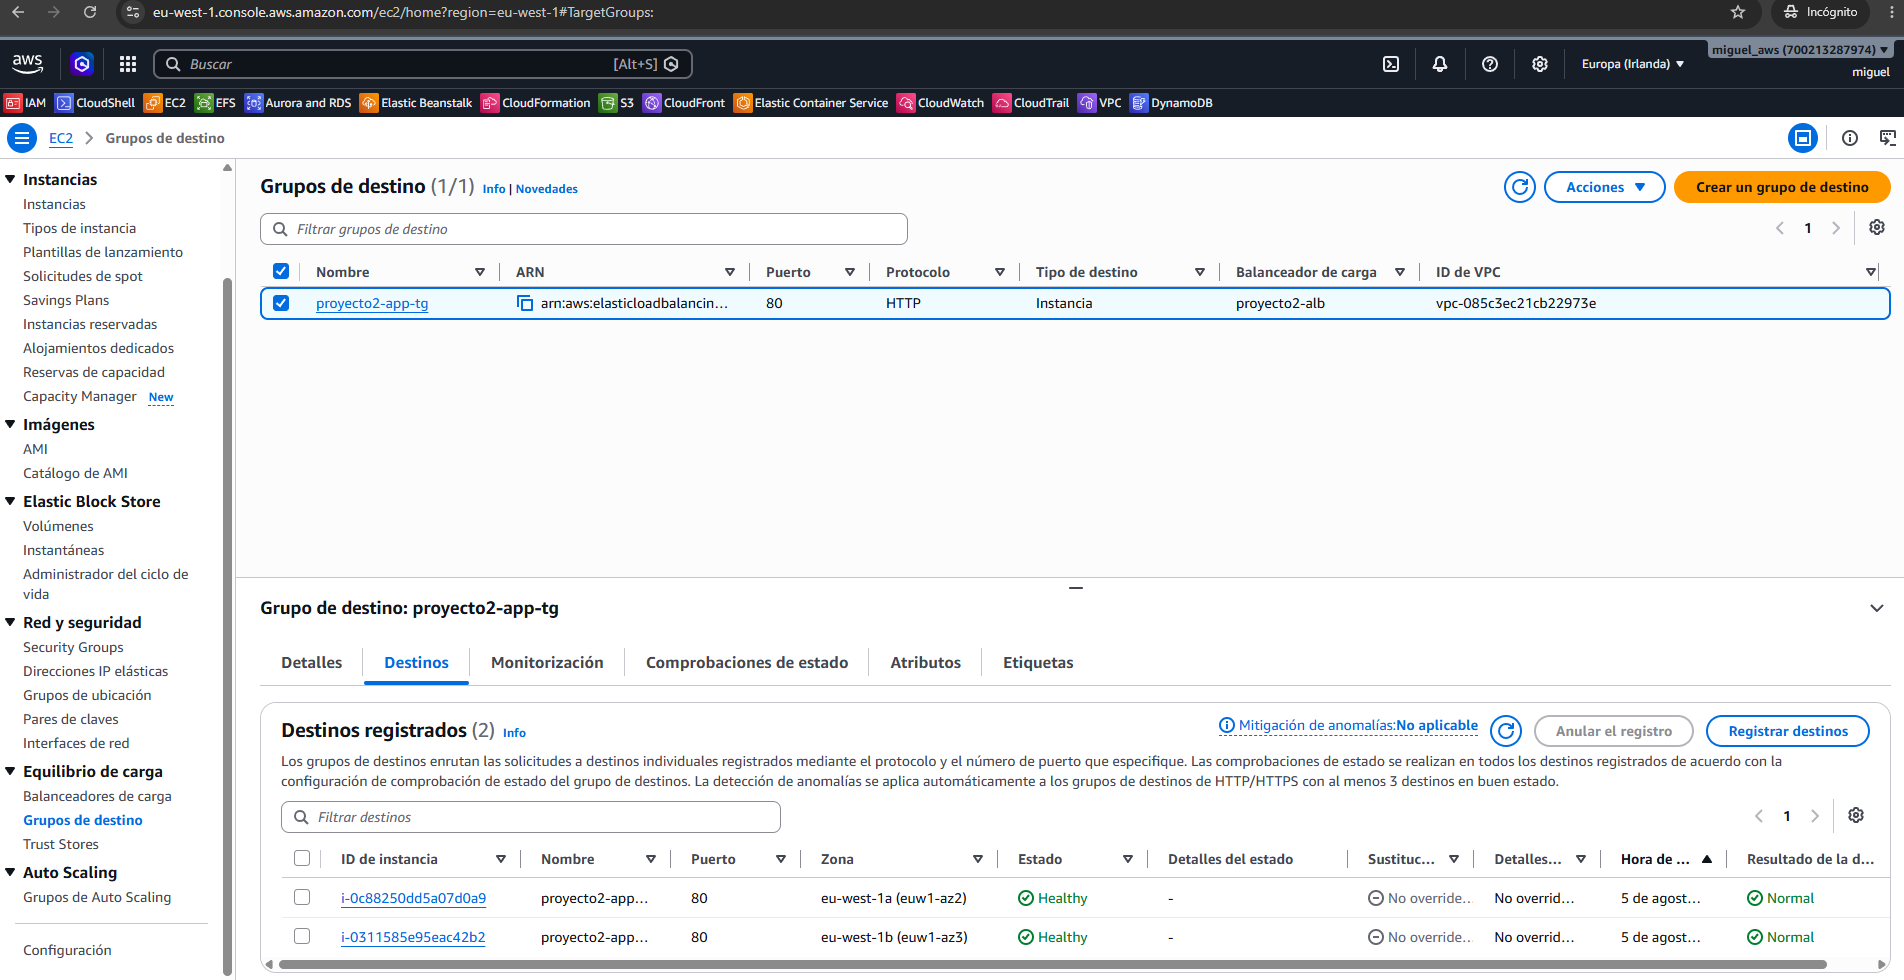
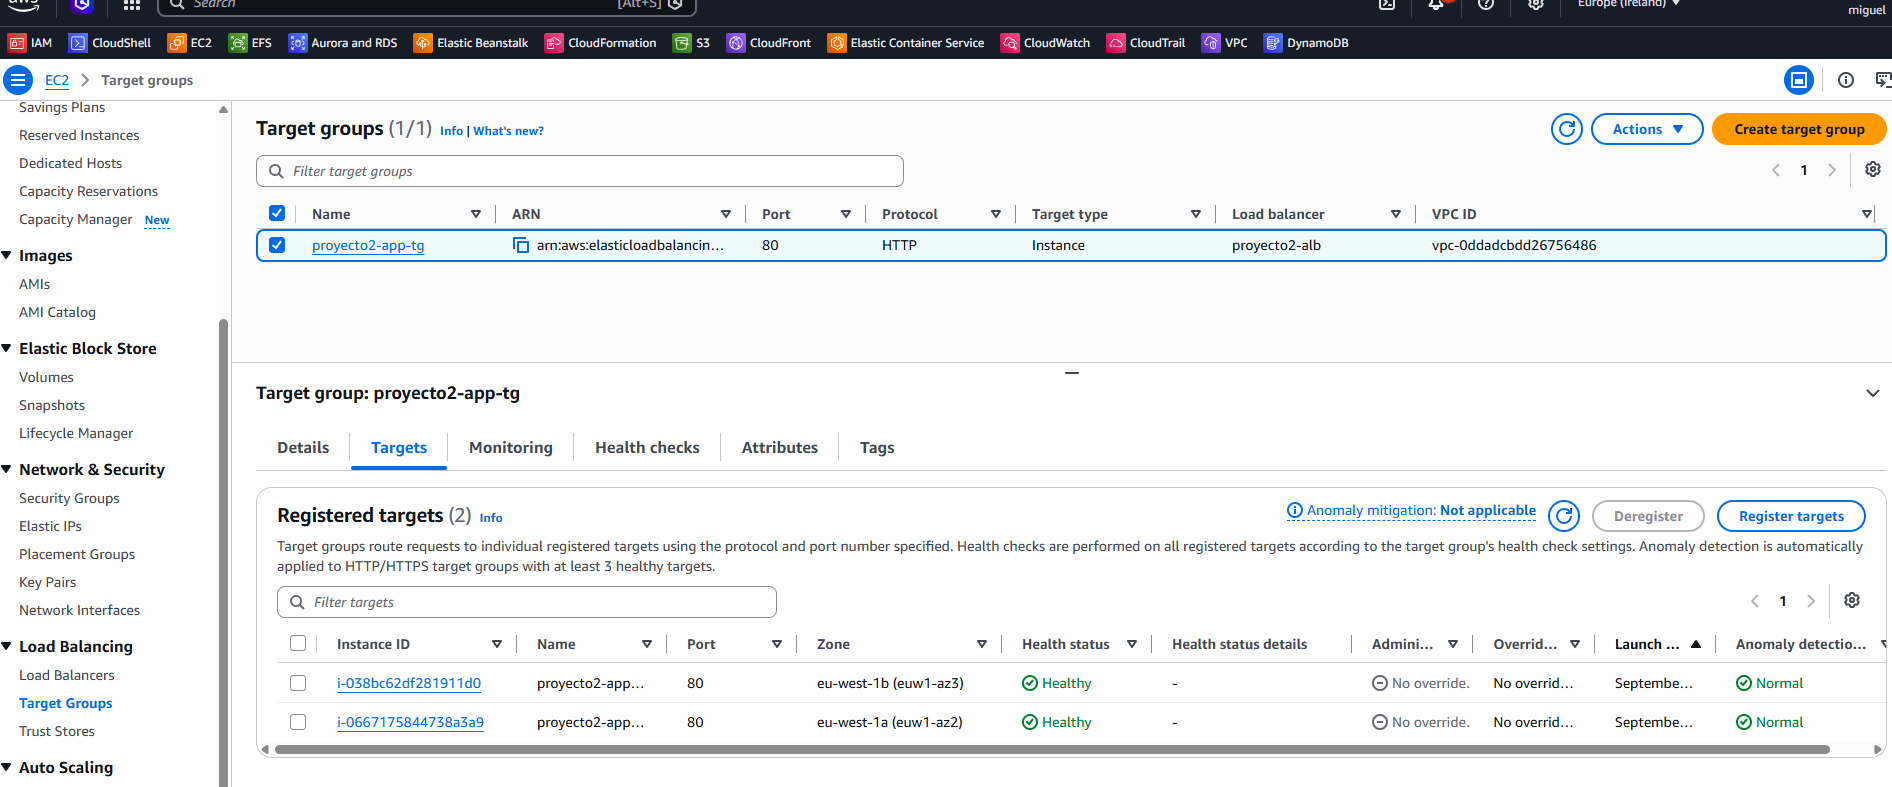
docs: update readme.md

Changed region(s): [[0.0, 0.0, 1.0, 1.0], [0.5613, 0.5794, 0.5925, 0.6099]]

diff --git a/docs/es/README-es.md b/docs/es/README-es.md
@@ -2,7 +2,7 @@
 
 + Este proyecto coge la arquitectura de [aws-3-tier-web-architecture](https://github.com/mamoros-dev/aws-3-tier-web-architecture)
 (la que monté a mano en consola en el Proyecto 1) y la recrea entera con Terraform. 
-![Diagrama de la arquitectura](docs/images/diagrama-arquitectura.png)
+![Diagrama de la arquitectura](../images/diagrama-arquitectura.png)
 
 + La idea era aprender IaC sin tener que pelearme a la vez con una arquitectura nueva — así cualquier problema que me saliera sabía que era de Terraform, no de la arquitectura en sí.
 
@@ -85,21 +85,21 @@ terraform apply "tfplan"
 ## Infraestructura desplegada y funcionando
 
 + El estado de Terraform vive en un bucket S3, no en mi disco. Así, si algún día trabajo desde otro portátil, o si esto lo lleva más gente, todos leemos el mismo estado:
-![Bucket de S3 para state Terraform file](docs/images/s3-bucket.png)
+![Bucket de S3 para state Terraform file](../images/s3-bucket.png)
     > Tiene el versionado activado, por si algún día un `apply` deja el estado en mal estado, poder volver a una versión anterior del archivo. También el acceso público bloqueado, porque el estado puede tener datos sensibles.
 
 + Tabla DynamoDB para el locking del estado:
-![Tabla DynamoDB para el locking del estado](docs/images/dynamodb-locks.png)
+![Tabla DynamoDB para el locking del estado](../images/dynamodb-locks.png)
     > Esta tabla es la que evita que dos `apply` se ejecuten a la vez sobre el mismo estado. Cuando lanzo un `apply`, Terraform escribe un lock aquí antes de tocar nada; si alguien (o yo mismo desde otro sitio) intentara aplicar algo al mismo tiempo, le saldría un error de estado bloqueado en vez de corromper el archivo. Solo estoy yo trabajando en esto, pero es el mismo mecanismo que usaría un equipo entero, y quería tenerlo desde el principio en vez de añadirlo después.
 
 + El ALB funcionando en ambas AZs(eu-west-1a/eu-west-1b) con subnet públicas:
-![ALB en ambas AZs](docs/images/alb.png)
+![ALB en ambas AZs](../images/alb.png)
 
 + El Auto Scaling Group manteniendo sus 2 instancias sanas en ambas AZs:
-![Auto Scaling group](docs/images/autoscaling.png)
+![Auto Scaling group](../images/autoscaling.png)
 
 + Y el Target Group confirmando que ambas pasan los health checks del Load Balancer:
-![Target Group con las dos instancias healthy](docs/images/target-group-healthy.png)
+![Target Group con las dos instancias healthy](../images/target-group-healthy.png)
 
 + **Esta vez, toda esta infraestructura la desplegó el pipeline, no yo a mano** — el primer `apply` real disparado por GitHub Actions tras aprobar el Environment `production`.
 
@@ -107,14 +107,14 @@ terraform apply "tfplan"
 
 + Escaneo de Seguridad en Pipeline (Checkov / Trivy):
     - Shift Left Security: Los análisis de seguridad de código IaC se ejecutan en la fase más temprana posible (en la Pull Request) antes de interactuar con la nube de AWS.
-![pipeline Security & Quality Gate DevSecOps](./docs/images/workflow-devsecops.png)  
-![workflow pipeline devsecops](./docs/images/security-qualityscan.png)  
+![pipeline Security & Quality Gate DevSecOps](./../images/workflow-devsecops.png)  
+![workflow pipeline devsecops](./../images/security-qualityscan.png)  
 
 
 + En vez de dejar un `phpinfo()` a secas, hice una página sencilla que muestra en qué zona de disponibilidad está corriendo la instancia que te ha tocado, y un contador de visitas guardado en RDS. 
 + Refrescando varias veces, se ve el ALB repartiendo entre las dos AZs y el contador subiendo de verdad desde la base de datos, no simulado.
-![Web servida desde eu-west-1a](docs/images/web-az1-contador.png)
-![Web servida desde eu-west-1b, contador subiendo](docs/images/web-az2-contador.png)
+![Web servida desde eu-west-1a](../images/web-az1-contador.png)
+![Web servida desde eu-west-1b, contador subiendo](../images/web-az2-contador.png)
 
 + Entrando por Session Manager (sin SSH):
     ```
@@ -125,14 +125,14 @@ terraform apply "tfplan"
     $ psql -h proyecto2-db.cz20sak60eut.eu-west-1.rds.amazonaws.com -U dbadmin -d proyecto2db
     proyecto2db=> SELECT * FROM visits;
     ```
-    ![Sesión SSM en una de las instancias](docs/images/ssm-instancia1.png)
-    ![Sesión SSM en la otra instancia](docs/images/ssm-instancia2.png)
+    ![Sesión SSM en una de las instancias](../images/ssm-instancia1.png)
+    ![Sesión SSM en la otra instancia](../images/ssm-instancia2.png)
 
 + Pipeline CI/CD:
-![Comentario del plan en el Pull Request](docs/images/pr-plan-comment.png)  
-![Pantalla de aprobación del Environment production](docs/images/environment-waiting.png)  
-![Aprobación confirmada del deployment](docs/images/environment-approved.png)  
-![Pantalla workflows git actions](docs/images/git-actions.png)  
+![Comentario del plan en el Pull Request](../images/pr-plan-comment.png)  
+![Pantalla de aprobación del Environment production](../images/environment-waiting.png)  
+![Aprobación confirmada del deployment](../images/environment-approved.png)  
+![Pantalla workflows git actions](../images/git-actions.png)  
 
 ## Verificando que Terraform gestiona todo y no hay nada tocado a mano
 
